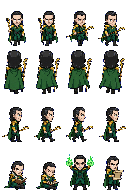
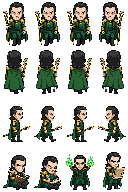
fix: mirror-based walk cycle - frame3=mirror(frame1) for consistent direction

diff --git a/public/assets/pixel-office/engine.js b/public/assets/pixel-office/engine.js
@@ -25,7 +25,7 @@
   var DIR_DOWN = 0, DIR_UP = 1, DIR_RIGHT = 2;
   var DIR_LEFT = 3; // virtual direction, uses RIGHT row + flip
   var ROW_ACTIVITY = 3;
-  var WALK_SEQUENCE = [1, 2, 3, 2, 1];
+  var WALK_SEQUENCE = [0, 1, 0, 3];
   var WORK_SEQUENCE = [0, 1];
   var STATE_FRAME = {
     idle: 0,
